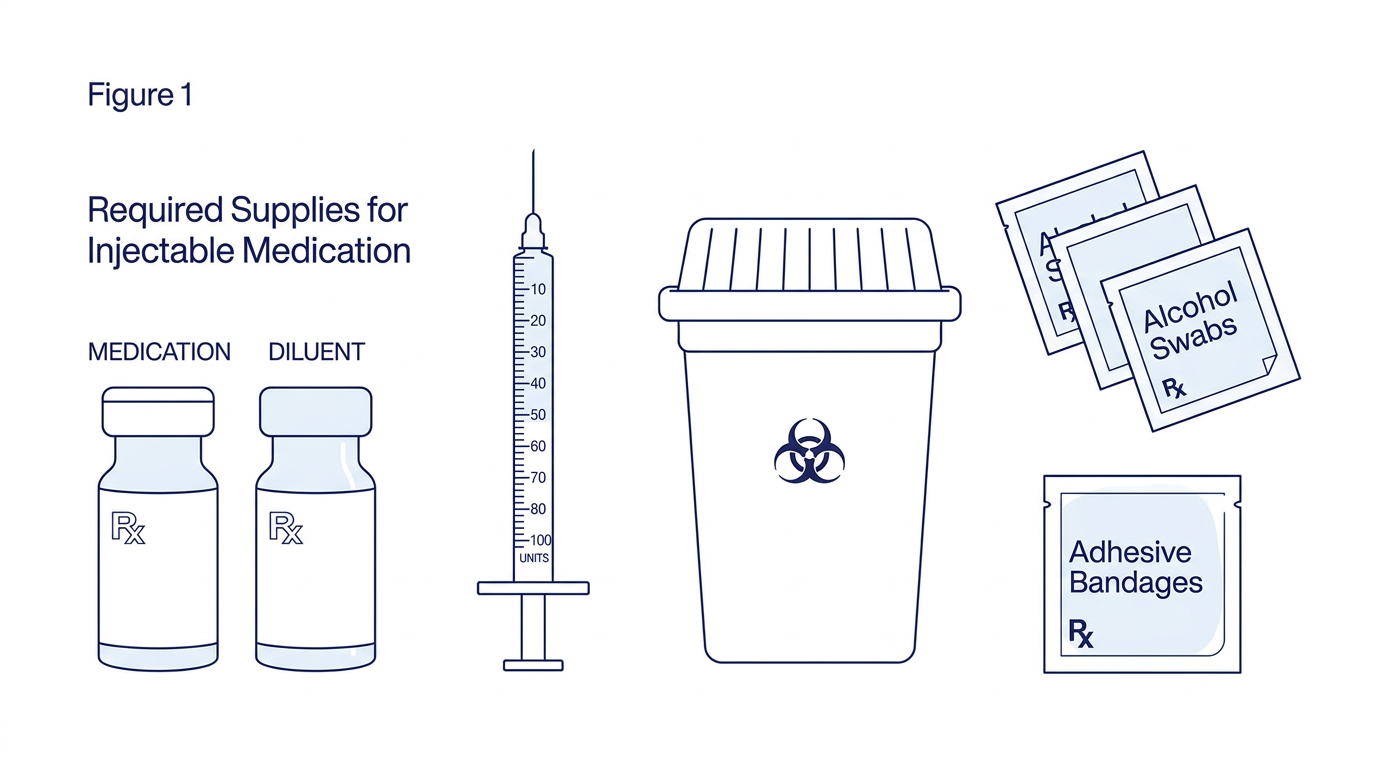
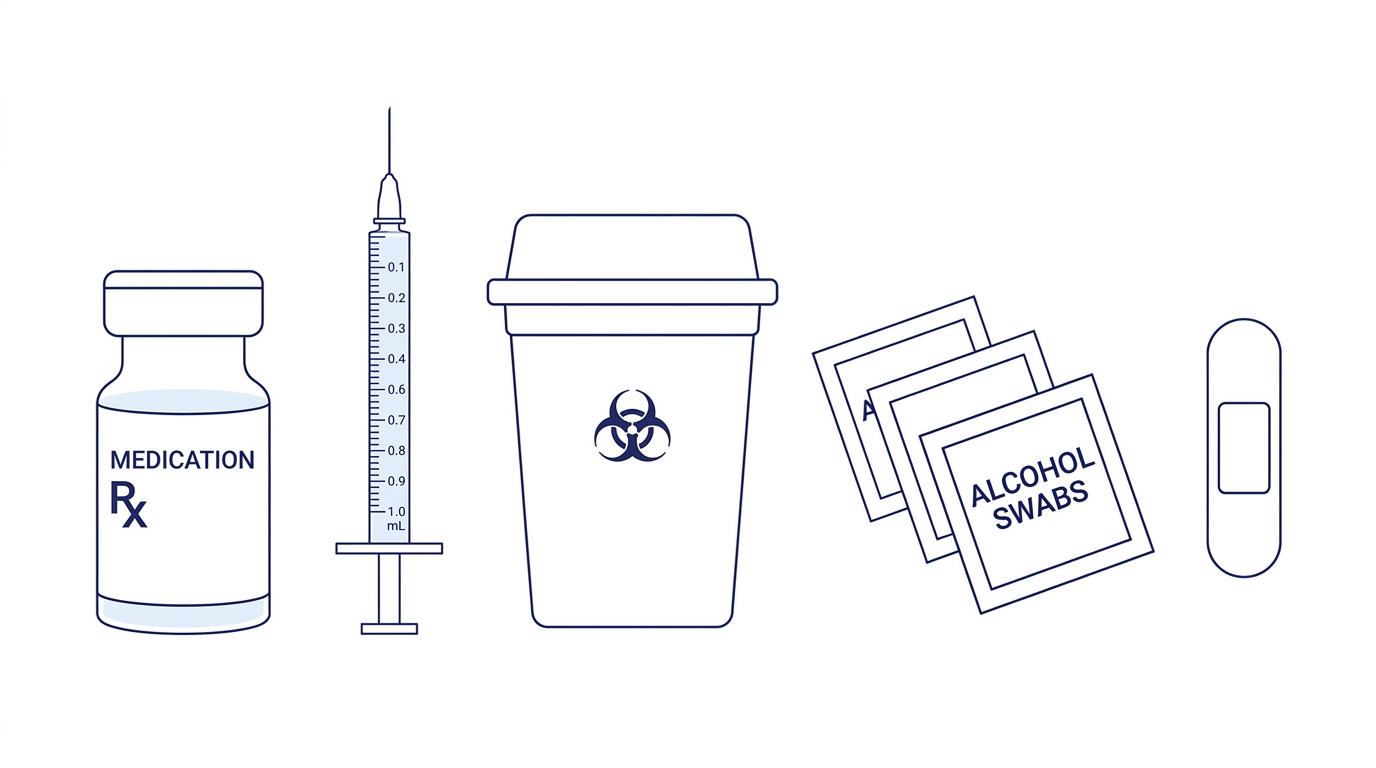
Modernize product insert pages and fix supplies graphic
- Remove card wrappers from graphics, images now flow natively in content
- Wider content area (max-w-4xl), more generous spacing between sections
- Centered header with editorial divider treatment
- Navy numbered circles instead of magenta tint
- Increased line height for better readability
- Images break out of text indent for full-width display
- Cleaner disclaimer with top border instead of card
- Updated supplies graphic: removed diluent vial (all vials pre-mixed)

Made-with: Cursor

diff --git a/src/app/(marketing)/product-insert/[slug]/page.tsx b/src/app/(marketing)/product-insert/[slug]/page.tsx
@@ -36,11 +36,11 @@ export default async function ProductInsertPage({
   return (
     <article className="bg-white">
       {/* Header */}
-      <div className="bg-gradient-to-b from-cream to-white py-16 sm:py-20">
-        <div className="mx-auto max-w-3xl px-6 lg:px-8">
+      <div className="bg-white py-16 sm:py-24 border-b border-beige">
+        <div className="mx-auto max-w-4xl px-6 lg:px-8">
           <Link
             href="/support"
-            className="inline-flex items-center gap-2 text-sm font-medium text-navy/50 hover:text-magenta transition-colors mb-8"
+            className="inline-flex items-center gap-2 text-sm font-medium text-navy/40 hover:text-magenta transition-colors mb-10"
           >
             <svg width="16" height="16" viewBox="0 0 16 16" fill="none">
               <path d="M10 4L6 8l4 4" stroke="currentColor" strokeWidth="1.5" strokeLinecap="round" strokeLinejoin="round" />
@@ -48,48 +48,54 @@ export default async function ProductInsertPage({
             Back to Support Center
           </Link>
 
-          <span className="inline-block rounded-full bg-magenta/10 px-3 py-1 text-[11px] font-bold uppercase tracking-wide text-magenta mb-4">
-            Product Insert
-          </span>
+          <div className="flex items-center gap-3 mb-6">
+            <div className="h-px flex-1 bg-beige" />
+            <span className="text-[11px] font-bold uppercase tracking-[0.2em] text-magenta">
+              Product Insert
+            </span>
+            <div className="h-px flex-1 bg-beige" />
+          </div>
 
-          <h1 className="text-3xl sm:text-4xl lg:text-5xl font-bold text-navy leading-tight mb-4">
+          <h1 className="text-4xl sm:text-5xl lg:text-6xl font-bold text-navy leading-[1.1] text-center mb-5">
             {insert.title}
           </h1>
-          <p className="text-lg text-navy/60 leading-relaxed mb-8">
+          <p className="text-lg text-navy/50 leading-relaxed text-center max-w-2xl mx-auto mb-8">
             {insert.subtitle}
           </p>
 
-          <ProductInsertContent />
+          <div className="flex justify-center">
+            <ProductInsertContent />
+          </div>
         </div>
       </div>
 
       {/* Content */}
-      <div className="mx-auto max-w-3xl px-6 lg:px-8 py-12 sm:py-16">
-        <div className="space-y-12">
+      <div className="mx-auto max-w-4xl px-6 lg:px-8 py-16 sm:py-24">
+        <div className="space-y-20">
           {insert.sections.map((section, i) => (
             <section key={i}>
-              <div className="flex items-center gap-3 mb-4">
-                <span className="flex items-center justify-center w-8 h-8 rounded-full bg-magenta/10 text-magenta text-sm font-bold">
+              <div className="flex items-start gap-4 mb-6">
+                <span className="flex items-center justify-center w-10 h-10 rounded-full bg-navy text-white text-sm font-bold shrink-0 mt-0.5">
                   {i + 1}
                 </span>
-                <h2 className="text-xl sm:text-2xl font-bold text-navy">
+                <h2 className="text-2xl sm:text-3xl font-bold text-navy leading-tight">
                   {section.title}
                 </h2>
               </div>
-              <div className="space-y-4 pl-11">
+              <div className="space-y-4 pl-14">
                 {section.content.map((paragraph, j) => (
-                  <p key={j} className="text-base leading-relaxed text-navy/70">
+                  <p key={j} className="text-base leading-[1.8] text-navy/60">
                     {paragraph}
                   </p>
                 ))}
                 {section.image && (
-                  <div className="mt-6 rounded-2xl overflow-hidden border border-beige bg-cream/30 p-4">
+                  <div className="mt-10 -ml-14">
                     <Image
                       src={section.image.src}
                       alt={section.image.alt}
-                      width={800}
-                      height={450}
-                      className="w-full h-auto rounded-xl"
+                      width={900}
+                      height={500}
+                      className="w-full h-auto"
                     />
                   </div>
                 )}
@@ -99,9 +105,9 @@ export default async function ProductInsertPage({
         </div>
 
         {/* Disclaimer */}
-        <div className="mt-16 rounded-2xl bg-cream/60 border border-beige p-6 sm:p-8">
-          <p className="text-xs text-navy/40 leading-relaxed">
-            <strong className="text-navy/60">Disclaimer:</strong> This product insert is
+        <div className="mt-24 border-t border-beige pt-8">
+          <p className="text-xs text-navy/35 leading-relaxed max-w-2xl">
+            <strong className="text-navy/50">Disclaimer:</strong> This product insert is
             provided for educational purposes only and does not constitute medical advice.
             Always follow the specific instructions provided by your healthcare provider
             and the medication label. If you have questions about your prescribed therapy,
@@ -114,18 +120,18 @@ export default async function ProductInsertPage({
         </div>
 
         {/* Bottom CTA */}
-        <div className="mt-8 rounded-2xl bg-navy-deep p-8 sm:p-10 text-center">
-          <h3 className="text-xl sm:text-2xl font-bold text-white mb-3">
+        <div className="mt-16 rounded-3xl bg-navy-deep p-10 sm:p-14 text-center">
+          <h3 className="text-2xl sm:text-3xl font-bold text-white mb-3">
             Questions about your medication?
           </h3>
-          <p className="text-sm text-white/50 mb-6 max-w-md mx-auto">
+          <p className="text-sm text-white/40 mb-8 max-w-md mx-auto">
             Our pharmacists are available to help with injection technique, dosage questions,
             and medication storage.
           </p>
           <div className="flex flex-col sm:flex-row items-center justify-center gap-4">
             <a
               href={CONTACT.emailHref}
-              className="inline-flex items-center gap-2 rounded-full bg-magenta px-6 py-3 text-sm font-semibold text-white hover:bg-magenta-dark transition-colors"
+              className="inline-flex items-center gap-2 rounded-full bg-magenta px-7 py-3.5 text-sm font-semibold text-white hover:bg-magenta-dark transition-colors"
             >
               Contact Our Team
             </a>
@@ -133,7 +139,7 @@ export default async function ProductInsertPage({
               href={SITE.onboarding}
               target="_blank"
               rel="noopener noreferrer"
-              className="inline-flex items-center gap-2 rounded-full border-2 border-white/20 px-6 py-3 text-sm font-semibold text-white hover:border-magenta hover:text-magenta-light transition-colors"
+              className="inline-flex items-center gap-2 rounded-full border-2 border-white/15 px-7 py-3.5 text-sm font-semibold text-white/70 hover:border-magenta hover:text-white transition-colors"
             >
               New Provider
             </a>

diff --git a/src/data/product-inserts.ts b/src/data/product-inserts.ts
@@ -38,7 +38,7 @@ export const productInserts: ProductInsert[] = [
         ],
         image: {
           src: "/images/product-inserts/insert-fig1-supplies.png",
-          alt: "Figure 1: Required supplies for injectable medication including medication vial, diluent, syringe, sharps container, alcohol swabs, and adhesive bandages",
+          alt: "Figure 1: Required supplies for injectable medication including pre-mixed medication vial, syringe, sharps container, alcohol swabs, and adhesive bandage",
         },
       },
       {
@@ -132,7 +132,7 @@ export const productInserts: ProductInsert[] = [
         ],
         image: {
           src: "/images/product-inserts/insert-fig1-supplies.png",
-          alt: "Figure 1: Required supplies for injectable medication including medication vial, diluent, syringe, sharps container, alcohol swabs, and adhesive bandages",
+          alt: "Figure 1: Required supplies for injectable medication including pre-mixed medication vial, syringe, sharps container, alcohol swabs, and adhesive bandage",
         },
       },
       {
